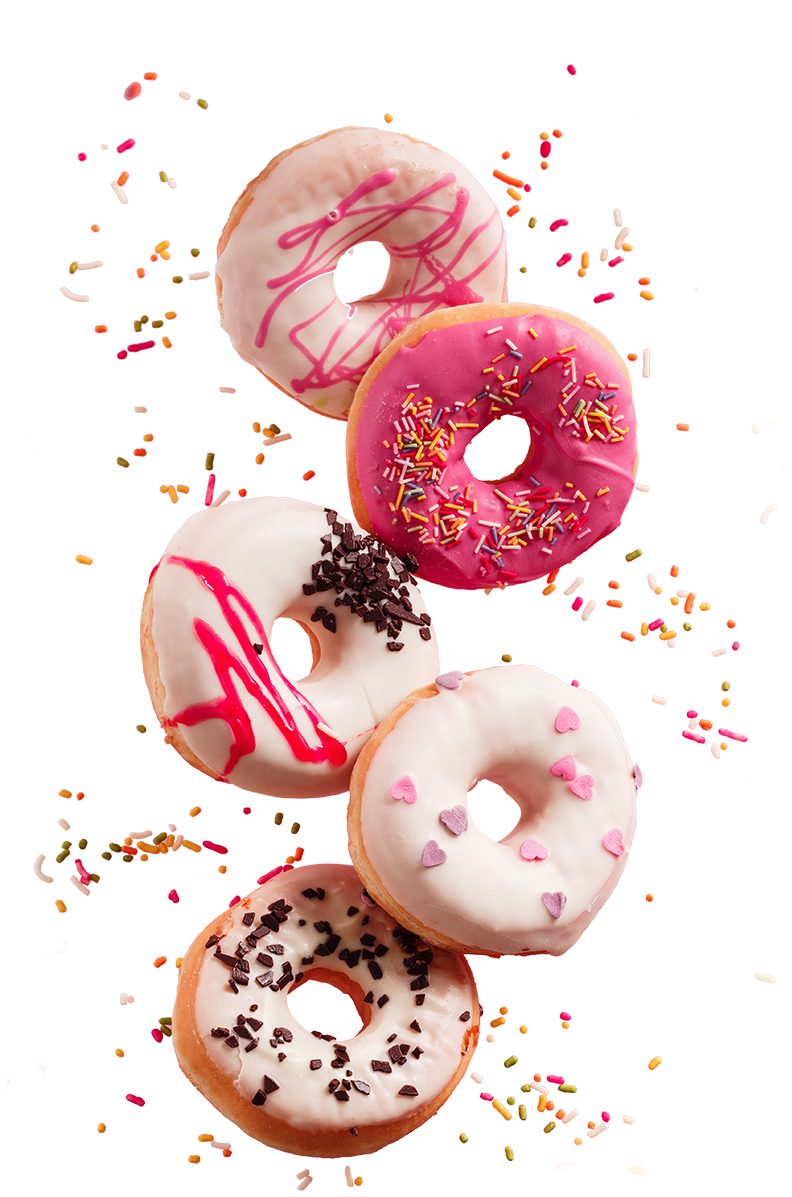
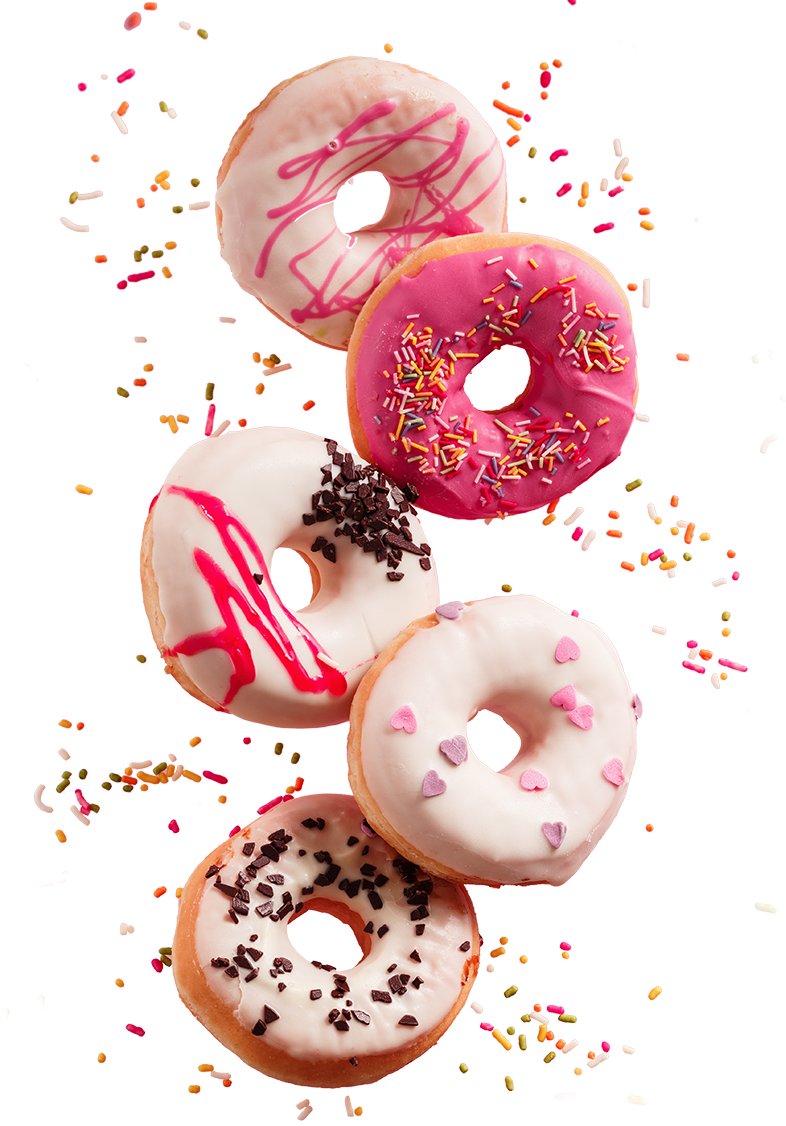
Estilização da HeaderBox

diff --git a/src/assets/HeaderBoxItens/HeaderBoxItensStyle.jsx b/src/assets/HeaderBoxItens/HeaderBoxItensStyle.jsx
@@ -1,0 +1,116 @@
+import styled from "styled-components";
+
+export const Header = styled.div`
+position: absolute;
+width: 100%;
+height: 90vh;
+display: flex;
+/* border: green 1px solid; */
+`;
+
+export const Welcome = styled.div`
+/* border: red 1px solid; */
+position: absolute;
+width: 100%;
+height: 30vh;
+text-align: center;
+padding-left: 1.5rem;
+h1{
+    text-transform: uppercase;
+    font-size: 8.5rem;
+    font-family: 'Konkhmer Sleokchher', cursive;
+    font-weight:lighter;
+    color: #ff9b9b;
+    letter-spacing: 4.7rem;
+}
+`;
+
+export const Donuts = styled.div`
+/* border: blue 2px solid; */
+img{
+    position: relative;
+    width: 50vw;
+    margin-top: -19rem;
+}
+`;
+
+export const TextBox = styled.div`
+position: absolute;
+display: flex;
+flex-direction: column;
+justify-content: space-evenly;
+margin-top: 12rem;
+margin-left: 10rem;
+/* border: blue 2px solid; */
+height: 55vh;
+width: 18vw;
+p{
+    font-size: 1.5rem;
+    font-family: 'Konkhmer Sleokchher', cursive;
+    color: white;
+}
+h2{
+    font-size: 3rem;
+    text-transform: uppercase;
+    font-family: 'Konkhmer Sleokchher', cursive;
+    color: white;
+}
+button{
+    width: 10vw;
+    height: 8vh;
+    border-radius: 30px;
+    border: none;
+    background-color: #3b2655;
+    color: white;
+    font-family: 'Konkhmer Sleokchher', cursive;
+    font-size: 0.9rem;
+    box-shadow: 0px 10px 14px -7px #000;
+    cursor: pointer;
+}
+button:hover{
+    background-color: #795c34;
+    letter-spacing: 2px;
+}
+`;
+
+export const Milkshake = styled.div`
+/* border: blue 1px solid; */
+margin-top: 13rem;
+margin-left: 56rem;
+
+img{
+    width: 25vw;
+}
+`;
+
+export const Text = styled.div`
+position: absolute;
+display: flex;
+align-items: center;
+justify-content: center;
+/* border: red 1px solid; */
+margin-top: 33rem;
+margin-left: 60rem;
+width: 20vw;
+height: 10vh;
+p{
+    border-bottom: white 2px solid;
+    color: white;
+    font-family: 'Konkhmer Sleokchher', cursive;
+    font-size: 1.2rem;
+}
+`;
+
+export const Medias = styled.div`
+height: 20vh;
+display: flex;
+margin-top: 12rem;
+flex-direction: column;
+justify-content: space-around;
+/* border: red 2px solid; */
+position: absolute;
+padding-left: 1rem;
+img{
+    width: 2vw;
+}
+`;

diff --git a/src/assets/Header/Header.jsx b/src/assets/Header/Header.jsx
@@ -5,31 +5,31 @@ import Lupa from "../images/lupa.png";
 import Circle from "../images/circle.png";
 import Menu from "../images/menuhamburguer.png";
 
-export default function Header (){
-    return(
+export default function Header() {
+    return (
         <S.HeaderMain>
-            <img src={Background} alt="Background"/>
-            <S.Navbar>
-                <S.Logo>
-                <img src={Logo} alt="Logo"/>
-                </S.Logo>
-                <S.Input>
-                <input type="text" placeholder="Search..."/>
-                <img src={Lupa} alt="Lupa"/>
-                </S.Input>
-                <ul>
-                    <li>Home</li>
-                    <img src={Circle} alt="Circle"/>
-                    <li>About</li>
-                    <img src={Circle} alt="Circle"/>
-                    <li>Product</li>
-                    <img src={Circle} alt="Circle"/>
-                    <li>Contact</li>
-                </ul>
-                <S.Menu>
-                    <img src={Menu} alt="Menu"/>
-                </S.Menu>
-            </S.Navbar>
+            <img src={Background} alt="Background" />
+                <S.Navbar>
+                    <S.Logo>
+                        <img src={Logo} alt="Logo" />
+                    </S.Logo>
+                    <S.Input>
+                        <input type="text" placeholder="Search..." />
+                        <img src={Lupa} alt="Lupa" />
+                    </S.Input>
+                    <ul>
+                        <li>Home</li>
+                        <img src={Circle} alt="Circle" />
+                        <li>About</li>
+                        <img src={Circle} alt="Circle" />
+                        <li>Product</li>
+                        <img src={Circle} alt="Circle" />
+                        <li>Contact</li>
+                    </ul>
+                    <S.Menu>
+                        <img src={Menu} alt="Menu" />
+                    </S.Menu>
+                </S.Navbar>
         </S.HeaderMain>
     );
 }

diff --git a/src/assets/HeaderBoxItens/HeaderBoxItens.jsx b/src/assets/HeaderBoxItens/HeaderBoxItens.jsx
@@ -1,0 +1,37 @@
+import * as S from "./HeaderBoxItensStyle";
+import Donuts from "../images/donutsgrandes.png";
+import Copos from "../images/copos.png";
+import IconInstagram from "../images/iconinstagram.png";
+import IconFacebook from "../images/iconfacebook.png";
+import IconPinterest from "../images/iconpinterest.png";
+
+export default function HeaderBoxItens() {
+    return (
+        <S.Header>
+            <S.Welcome>
+                <h1>Welcome</h1>
+                <S.Donuts>
+                    <img src={Donuts} alt="Donuts"/>
+                </S.Donuts>
+            </S.Welcome>
+            <S.TextBox>
+                <p>B I Y</p>
+                <h2>Baked</h2>
+                <h2>it</h2>
+                <h2>Yourself</h2>
+                <button>Get Started</button>
+            </S.TextBox>
+            <S.Milkshake>
+                <img src={Copos} alt="Milkshake"/>
+            </S.Milkshake>
+            <S.Text>
+                <p>Baked it with the love!</p>
+            </S.Text>
+            <S.Medias>
+                <img src={IconPinterest} alt="Pinterest"/>
+                <img src={IconInstagram} alt="Instagram"/>
+                <img src={IconFacebook} alt="Facebook"/>
+            </S.Medias>
+        </S.Header>
+    );
+}

diff --git a/src/assets/Header/HeaderStyle.jsx b/src/assets/Header/HeaderStyle.jsx
@@ -2,8 +2,10 @@ import styled from "styled-components";
 
 export const HeaderMain = styled.div`
 display: flex;
+flex-direction: column;
+justify-content: space-between;
 /* border: green 2px solid; */
-height: 100vh;
+height: 20vh;
 img{
     width: 100%;
 }
@@ -38,6 +40,7 @@ li{
 li:hover{
     color: #795c34;
     border-bottom: #795c34 2px solid;
+    letter-spacing: 4px;
 }
 img{
     display: flex;
@@ -47,21 +50,24 @@ img{
 `;
 
 export const Logo = styled.div`
+/* border: red 1px solid; */
 padding-left: 1.2rem;
+padding-bottom:1.1rem;
+width: 10vw;
 
 img{
-    width: 7vw;
+    width: 6vw;
 }
 `;
 
 export const Input = styled.div`
 display: flex;
-width: 20vw;
+width: 24vw;
 align-items: center;
 justify-content: space-evenly;
 /* border: purple 1px solid; */
 input{
-    width: 17vw;
+    width: 20vw;
     height: 5vh;
     border-radius: 15px;
     border: purple 1px solid;

diff --git a/src/App.jsx b/src/App.jsx
@@ -1,11 +1,13 @@
 import * as S from "./assets/GlobalStyle";
 import Header from "./assets/Header/Header";
+import HeaderBox from "./assets/HeaderBoxItens/HeaderBoxItens";
 
 export default function App(){
   return(
     <>
     <S.GlobalStyle/>
     <Header/>
+    <HeaderBox/>
     </>
   );
 }
